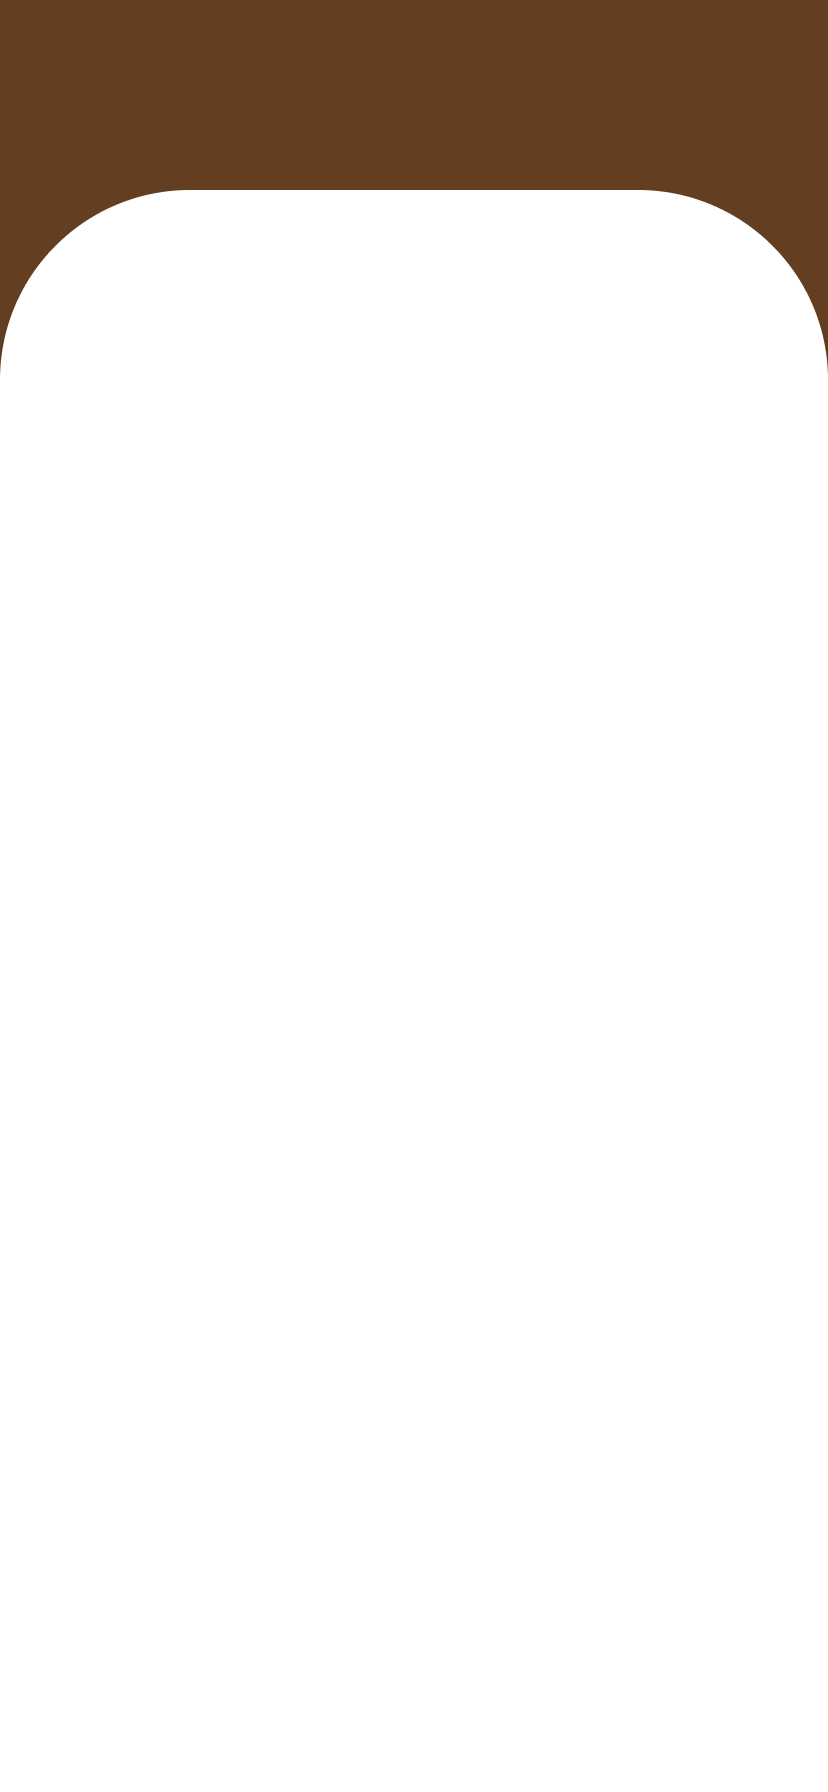
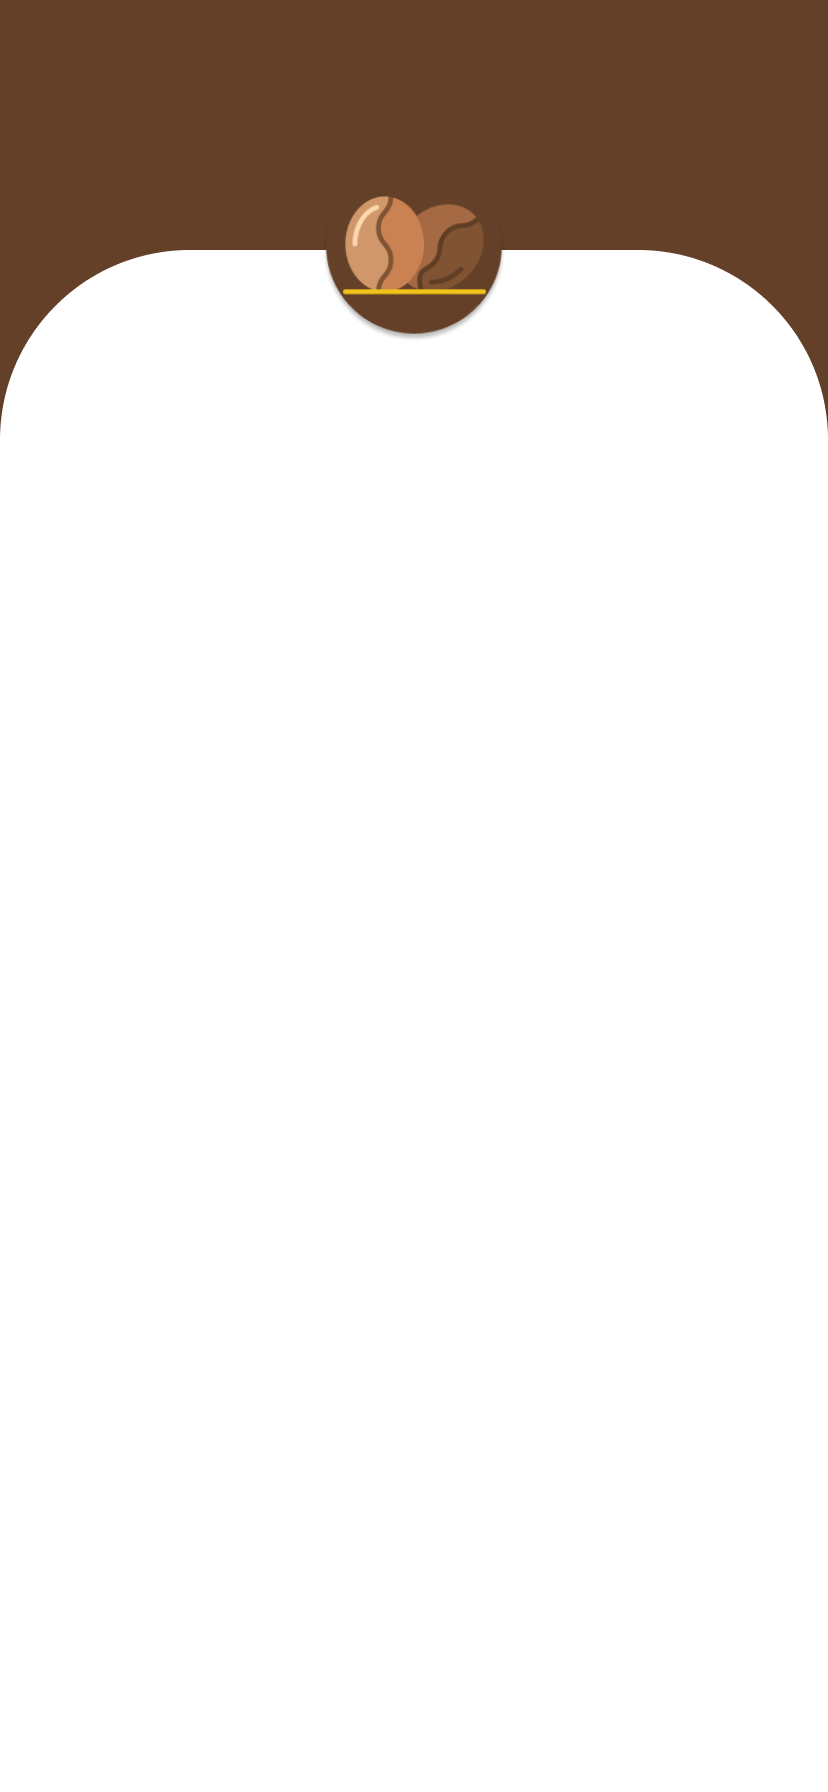
coming soon screen

Changed region(s): [[0.0, 0.0938, 1.0, 0.25]]

diff --git a/src/scenes/comingSoon.tsx b/src/scenes/comingSoon.tsx
@@ -1,0 +1,62 @@
+import React, {FC, memo} from 'react';
+import {
+  ImageBackground,
+  StyleSheet,
+  Image,
+  View,
+  KeyboardAvoidingView,
+} from 'react-native';
+import {SafeAreaView} from 'react-native-safe-area-context';
+import {Dimensions} from '../assets/styles';
+import colors from '../assets/styles/colors';
+import {ImageComponent, TextComponent} from '../components/atoms';
+
+const background = require('../assets/images/background-2.png');
+const construction = require('../assets/images/construction.png');
+
+interface Props {}
+
+const ComingSoon: FC<Props> = ({}: Props) => {
+  return (
+    <SafeAreaView style={styles.container}>
+      <KeyboardAvoidingView style={styles.container}>
+        <View style={styles.container}>
+          <ImageBackground
+            style={styles.background}
+            source={{uri: Image.resolveAssetSource(background).uri}}
+            imageStyle={styles.backgroundImage}>
+            <ImageComponent
+              imageStyle={styles.image}
+              uri={Image.resolveAssetSource(construction).uri}
+            />
+            <TextComponent text="Coming Soon!" textStyle={styles.comingSoon} />
+          </ImageBackground>
+        </View>
+      </KeyboardAvoidingView>
+    </SafeAreaView>
+  );
+};
+
+const styles = StyleSheet.create({
+  container: {
+    flex: 1,
+  },
+  background: {
+    flex: 1,
+    justifyContent: 'center',
+    alignItems: 'center',
+  },
+  backgroundImage: {
+    resizeMode: 'cover',
+  },
+  image: {
+    width: 300,
+    height: 200,
+  },
+  comingSoon: {
+    fontSize: Dimensions.TITLE,
+    color: colors.LOGO_COLOR,
+  },
+});
+
+export default memo(ComingSoon);

diff --git a/src/index.tsx b/src/index.tsx
@@ -1,7 +1,7 @@
 import {NavigationContainer} from '@react-navigation/native';
 import {createStackNavigator} from '@react-navigation/stack';
 import React, {FC} from 'react';
-import {CreateUserScreen, WelcomeScreen} from './scenes';
+import {ComingSoon, CreateUserScreen, WelcomeScreen} from './scenes';
 
 const Stack = createStackNavigator();
 
@@ -17,6 +17,11 @@ const App: FC = () => {
         <Stack.Screen
           name="Create Profile"
           component={CreateUserScreen}
+          options={{headerShown: false}}
+        />
+        <Stack.Screen
+          name="Coming Soon"
+          component={ComingSoon}
           options={{headerShown: false}}
         />
       </Stack.Navigator>

diff --git a/src/scenes/index.tsx b/src/scenes/index.tsx
@@ -1,2 +1,3 @@
 export {default as WelcomeScreen} from './welcome';
 export {default as CreateUserScreen} from './createProfile';
+export {default as ComingSoon} from './comingSoon';
